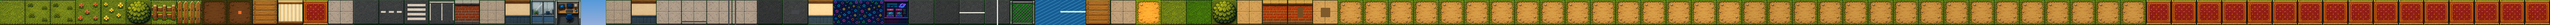
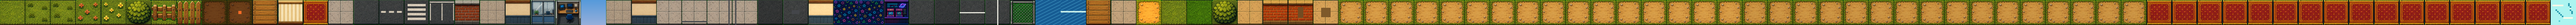
Ch.4 polish: render the frozen meltfall crossing as a blue-white ice bridge
The spine_meltfall gate opened the crossing's COLLISION (the soft-lock fix) but
not its APPEARANCE — the 'E' foam-lip tiles stayed blue sea_foam, so the fall the
dialogue calls "frozen to a blue-white bridge" still looked like open water. Add a
real ice tile and render it for the frozen crossing only.

- src/spritegen/tiles.ts: meltIceTile() painter (CYAN ice ramp + PAPER-white frost
  streaks + deeper-cyan hairline cracks), registered as 'melt_ice' at the TILESET
  tail so no existing tile index (base/path/rug) shifts.
- src/scenes/OverworldScene.ts: buildTiles renders 'E' as melt_ice when
  spine_meltfall_frozen — same cells + flag as the collision carve.
- assets/art/world/otterbrook_tiles_16.png: the authored runtime tile strip (which
  overrides the procedural atlas 1:1) gets one matching ice column at the tail
  (6464->6528px); the authored_assets TILESET.length*64 width pin still holds.
- tools/sync-melt-ice-tile.ts: SURGICAL strip-sync — preserves every existing
  column byte-for-byte (the strip carries hand-authored fence tiles the review grid
  doesn't reproduce, so a full re-pack would clobber them) and (re)writes only the
  trailing ice column from the procedural painter.

Verified live: the frozen crossing renders melt_ice (idx 101) as blue-white ice,
collision open across it while the water band stays solid, tiles texture = 102.
Gates green: tsc, validate, 1237 tests, build.

diff --git a/tools/sync-melt-ice-tile.ts b/tools/sync-melt-ice-tile.ts
@@ -1,0 +1,71 @@
+/**
+ * tools/sync-melt-ice-tile.ts — append (or refresh) the §A4.11 frozen-meltfall
+ * ICE tile as the last column of the runtime world-tile strip
+ * (assets/art/world/otterbrook_tiles_16.png).
+ *
+ * WHY a bespoke tool instead of tools/pack-world-tiles.ts: the live strip carries
+ * hand-authored tiles (fence_h/fence_v) that the review grid does NOT reproduce,
+ * so a full re-pack would clobber them. This tool is SURGICAL — it preserves
+ * every existing column byte-for-byte and only (re)writes the trailing ice
+ * column, rendered from the procedural meltIceTile() painter (the boot-fallback
+ * source of truth, so the strip override and the fallback always match).
+ * Re-runnable/idempotent: it keeps the first (TILESET.length-1) columns and
+ * re-appends a fresh ice column each run.
+ *
+ * Run:  npx vite-node tools/sync-melt-ice-tile.ts
+ */
+import { readFileSync, writeFileSync } from 'node:fs';
+import { TILESET, tileIndexByName } from '../src/spritegen/tiles';
+import { PALETTE, T } from '../src/palette';
+import { decodePng, encodePng, makeImg } from './imageio';
+
+const STRIP = 'assets/art/world/otterbrook_tiles_16.png';
+
+const iceIndex = tileIndexByName('melt_ice');
+if (iceIndex !== TILESET.length - 1) {
+  throw new Error(`melt_ice must be the LAST TILESET tile (got index ${iceIndex} of ${TILESET.length})`);
+}
+
+const live = decodePng(readFileSync(STRIP));
+const cell = live.h; // runtime tile size (64px at ART_SCALE 4)
+const scale = Math.max(1, Math.floor(cell / 16)); // 16px native painter -> runtime cell
+const keepCols = iceIndex; // the non-ice tiles occupy columns 0..iceIndex-1
+if (live.w < keepCols * cell) {
+  throw new Error(`strip ${live.w}x${live.h} too small to keep ${keepCols} columns`);
+}
+
+const pm = TILESET[iceIndex].make(); // 16x16 palette-index Pixmap
+const out = makeImg((keepCols + 1) * cell, cell);
+
+// 1) copy every existing column byte-for-byte (preserves authored tiles)
+for (let y = 0; y < cell; y++) {
+  for (let x = 0; x < keepCols * cell; x++) {
+    const s = (y * live.w + x) * 4;
+    const d = (y * out.w + x) * 4;
+    out.data[d] = live.data[s];
+    out.data[d + 1] = live.data[s + 1];
+    out.data[d + 2] = live.data[s + 2];
+    out.data[d + 3] = live.data[s + 3];
+  }
+}
+
+// 2) render the ice painter into the trailing column (nearest-neighbor upscale)
+const dx0 = keepCols * cell;
+for (let y = 0; y < cell; y++) {
+  for (let x = 0; x < cell; x++) {
+    const idx = pm.data[Math.floor(y / scale) * pm.w + Math.floor(x / scale)];
+    const d = (y * out.w + dx0 + x) * 4;
+    if (idx === T) {
+      out.data[d + 3] = 0;
+      continue;
+    }
+    const n = parseInt(PALETTE[idx].slice(1), 16);
+    out.data[d] = (n >> 16) & 0xff;
+    out.data[d + 1] = (n >> 8) & 0xff;
+    out.data[d + 2] = n & 0xff;
+    out.data[d + 3] = 0xff;
+  }
+}
+
+writeFileSync(STRIP, encodePng(out));
+console.log(`synced melt_ice as column ${iceIndex} -> ${STRIP} (${out.w}x${out.h})`);

diff --git a/src/spritegen/tiles.ts b/src/spritegen/tiles.ts
@@ -654,6 +654,27 @@ function seaFoamTile(): Pixmap {
   return pm;
 }
 
+/** §A4.11 — the frozen-meltfall ICE BRIDGE. CYAN is the palette's ice ramp (§B3);
+ *  PAPER-white frost streaks + deeper-cyan hairline cracks give the "blue-white"
+ *  the dialogue promises. Rendered for the 'E' crossing only when the meltfall is
+ *  frozen (OverworldScene.buildTiles); the rest of the fall stays blue sea_a.
+ *  Walkable (solid:false) — the collision carve and this appearance are the two
+ *  halves of one flag (spine_meltfall_frozen). */
+function meltIceTile(): Pixmap {
+  const pm = new Pixmap(TILE, TILE);
+  pm.fill(px(RAMP.CYAN, 3)); // pale ice (#acf4f0)
+  // surface sheen — two deliberate white frost streaks (ADR-020: marks, never noise)
+  pm.hline(1, 3, 7, px(RAMP.PAPER, 3)); // #fcf8e8
+  pm.hline(8, 11, 6, px(RAMP.PAPER, 3));
+  // hairline cracks — deeper-cyan veins (the "blue" of blue-white)
+  pm.line(3, 6, 7, 10, px(RAMP.CYAN, 1)); // #2c9cb0
+  pm.line(11, 2, 13, 8, px(RAMP.CYAN, 1));
+  // two cold glints
+  pm.set(12, 5, px(RAMP.PAPER, 3));
+  pm.set(5, 13, px(RAMP.CYAN, 2)); // #54ccd4
+  return pm;
+}
+
 /** pier planks — long warm boards running with the walkway */
 function dockTile(): Pixmap {
   const pm = new Pixmap(TILE, TILE);
@@ -861,6 +882,14 @@ for (let mask = 0; mask < 16; mask++) {
   const mv = mask;
   TILESET.push({ name: `rug_${mv}`, solid: false, make: () => rugTile(mv) });
 }
+
+// §A4.11 — the frozen-meltfall ice bridge, appended at the TAIL so it never
+// shifts an existing tile index (base/path/rug all keep theirs, so the on-disk
+// authored strip stays aligned). The runtime strip otterbrook_tiles_16.png
+// carries one matching column at this same tail index, synced by
+// tools/sync-melt-ice-tile.ts (the strip diverges from the review grid for a
+// couple of hand-authored tiles, so we append rather than re-pack the grid).
+TILESET.push({ name: 'melt_ice', solid: false, make: meltIceTile });
 
 export function tileIndexByName(name: string): number {
   const i = TILESET.findIndex((t) => t.name === name);

diff --git a/src/scenes/OverworldScene.ts b/src/scenes/OverworldScene.ts
@@ -529,7 +529,11 @@ export class OverworldScene extends Phaser.Scene {
           idx = RUG_BASE + mask;
         } else {
           let name = CHAR_LEGEND[ch] ?? 'grass_a';
-          if (name === 'sidewalk') {
+          if (meltCrossingOpen && ch === 'E') {
+            // §A4.11 — the frozen foam-lip crossing reads as a blue-white ice
+            // bridge (mirrors the collision carve below; same cells, same flag)
+            name = 'melt_ice';
+          } else if (name === 'sidewalk') {
             if (isRoad(x, y + 1)) name = 'sidewalk_curb';
             else if (isRoad(x + 1, y)) name = 'sidewalk_curb_e';
             else if (isRoad(x - 1, y)) name = 'sidewalk_curb_w';
